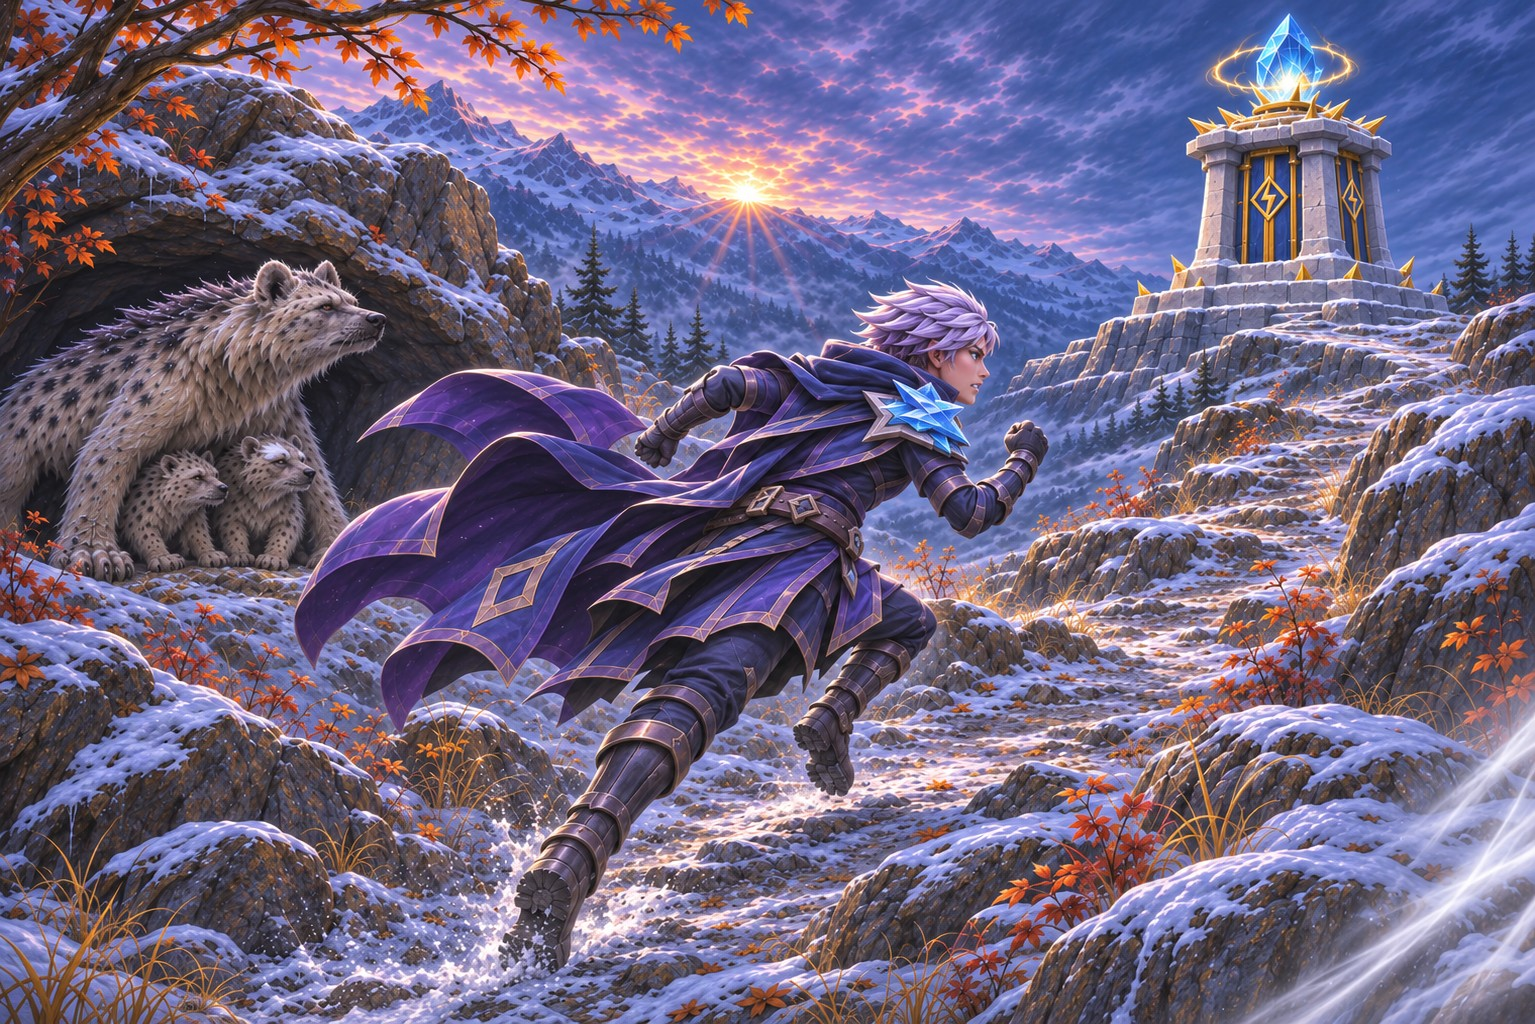
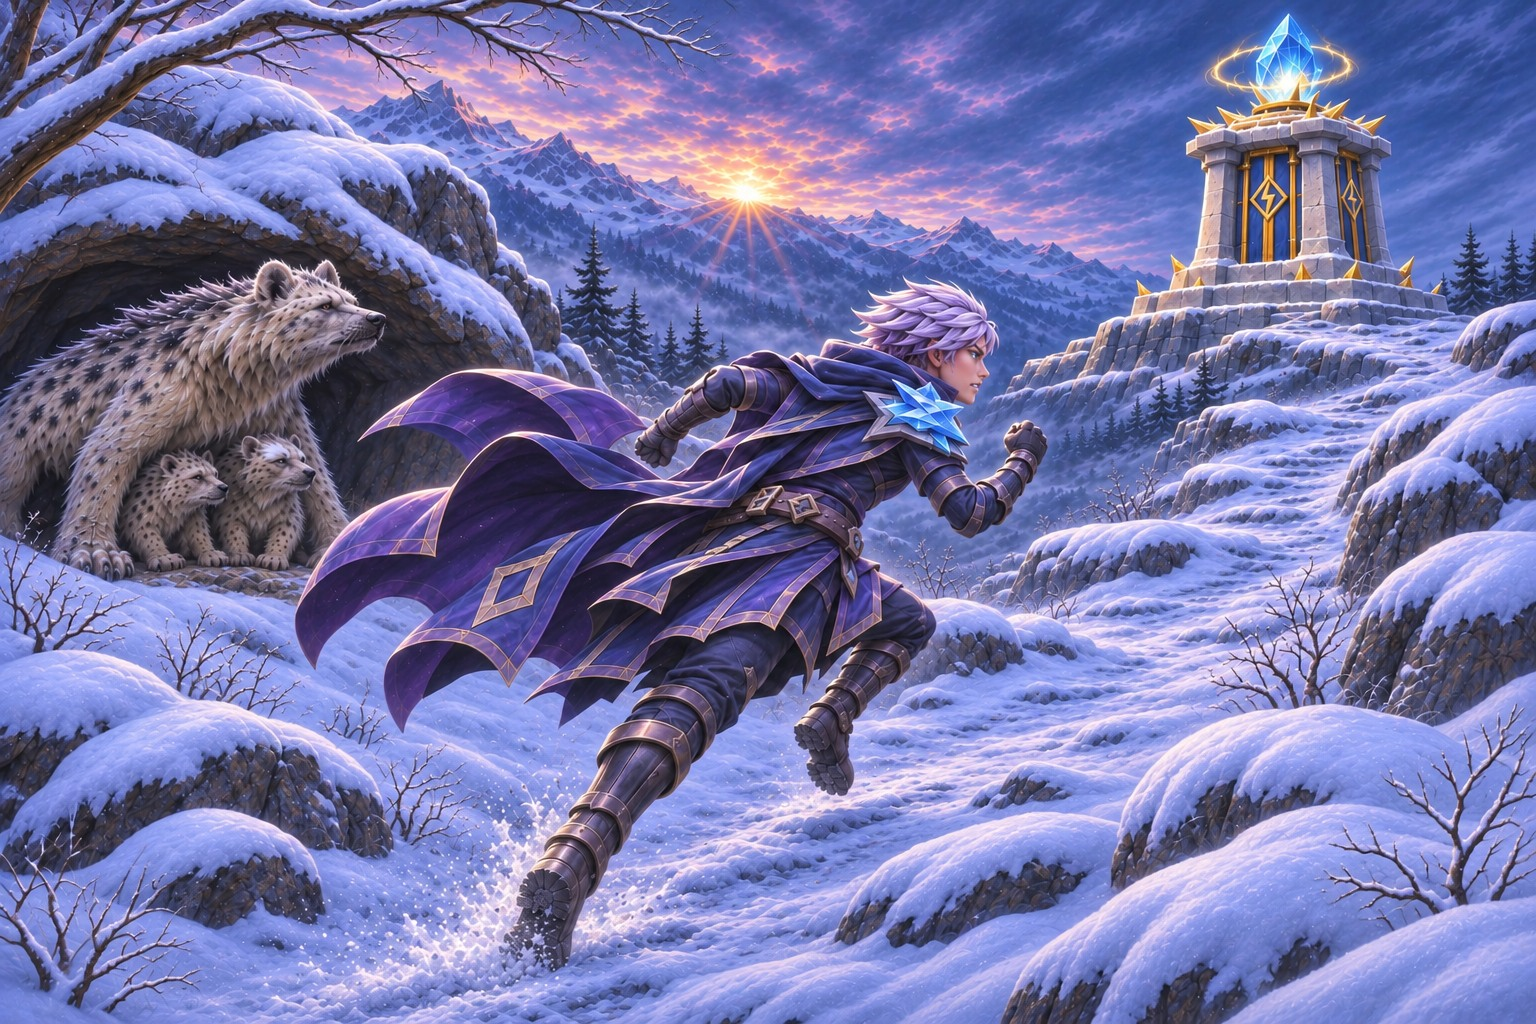
Add winter illustrations and the origin of Saila scar

diff --git a/RIFTORYN_SAILA_PROMPTY_AKTUALIZACJA.md b/RIFTORYN_SAILA_PROMPTY_AKTUALIZACJA.md
@@ -2,7 +2,7 @@
 
 Nowe kadry [06](riftoryn-unity/Assets/Resources/SailaStory/06.jpg) i [08](riftoryn-unity/Assets/Resources/SailaStory/08.jpg) są już w czytniku „Ciężaru kryształu”. Zachowują proporcje dostarczonych obrazów. Poniżej zapisano prompty do tych scen.
 
-**Retusz bez zmiany kadrów:** `SailaAwakening/01.jpg`, `02.jpg`, `04.jpg`, `05.jpg` i `06.jpg`. W tych pięciu plenerach pogłębiamy zimę. Druga część nie potrzebuje żadnej nowej sceny; `03.jpg` nie jest potrzebny, a finałowy [`07.jpg`](riftoryn-unity/Assets/Resources/SailaAwakening/07.jpg) zostaje bez zmian.
+W „Gdy wieża zamilkła” są już zimowe kadry `01.jpg`, `02.jpg`, `04.jpg`, `05.jpg` i `06.jpg`. Na kadrze 06 Saila ma świeże rozcięcie na lewym policzku w miejscu późniejszej blizny widocznej na portrecie. Poniżej zapisano prompty do tych scen.
 
 Pliki obu części znajdują się w `riftoryn-unity/Assets/Resources/`. Zachowaj poziomy format **3:2, 1536 × 1024 px, JPG**, bez napisów, ramek i znaków wodnych. Przy generowaniu użyj istniejących ilustracji jako referencji stylu oraz [arkusza Saily](assets/heroes/modeling-concepts/saila.png) jako referencji postaci. Saila jest młodą dorosłą kobietą o krótkich srebrzysto-lawendowych włosach. Zachowaj jej twarz, ciemny granat i fiolet płaszcza oraz charakterystyczny lodowy naramiennik.
 
@@ -28,8 +28,8 @@ Edytuj **po jednym obrazie naraz**: dołącz dokładnie ten JPG, który chcesz p
 
 > Zachowaj oryginalną kompozycję, proporcje, twarz i strój Saily, ułożenie postaci, wygląd wieży i zwierząt oraz malarską fakturę. Zmień tylko plener na środek zimy w górach Nivoren. Usuń pomarańczowe liście z gałęzi, krzewów i ziemi. Odsłoń nagie gałązki i zostaw ciemne iglaki. Pogłęb śnieg na szlaku i półkach skalnych; zostaw odsłonięte krawędzie skał i istniejące ślady. Zachowaj to samo niskie światło zimowego poranka we wszystkich pięciu kadrach. Nie zmieniaj pory dnia ani położenia elementów.
 
-- **[`01.jpg` — alarm za załomem](riftoryn-unity/Assets/Resources/SailaAwakening/01.jpg):** „Zachowaj Sailę z kartą obchodu i niewidoczną za skałą wieżę. Nad załomem zostaw tylko krótki żółtobiały błysk alarmu, jak w tekście. Usuń pomarańczowe liście z gałęzi u góry; zachowaj ślady butów na ośnieżonym szlaku.”
+- **[`01.jpg` — alarm za załomem](riftoryn-unity/Assets/Resources/SailaAwakening/01.jpg):** „Pokaż Sailę nasłuchującą na szlaku i błękitny rozbłysk za skałą, za którą stoi wieża. Na śniegu widać ślady butów.”
 - **[`02.jpg` — pierwszy ostrzał](riftoryn-unity/Assets/Resources/SailaAwakening/02.jpg):** „Zachowaj żółtobiałe wyładowanie uderzające w skałę, Sailę po prawej oraz matkę z dokładnie dwoma młodymi. Zastąp rude krzewy u stóp skały śniegiem i nagimi gałązkami. Nie zasypuj wnęki, w której chowają się zwierzęta.”
 - **[`04.jpg` — bieg do wieży](riftoryn-unity/Assets/Resources/SailaAwakening/04.jpg):** „Zachowaj Sailę w biegu, wieżę i matkę z dwoma młodymi przy skale. Niech buty Saily rozrzucają trochę sypkiego śniegu; nie zmieniaj jej pozy ani kierunku biegu. Usuń rudy pas roślinności z pobocza.”
 - **[`05.jpg` — wieża milknie](riftoryn-unity/Assets/Resources/SailaAwakening/05.jpg):** „Zachowaj dłonie Saily przy cokole i lód wspinający się po filarach aż do korony. Zwykły śnieg na ziemi powinien być matowy; lód na konstrukcji pozostaje szklisty. Błękitny kryształ ma pozostać cały, a żółty błysk uwięziony w środku. Nic nie wylatuje z wieży.”
-- **[`06.jpg` — zwierzęta odchodzą](riftoryn-unity/Assets/Resources/SailaAwakening/06.jpg):** „Zachowaj wyczerpaną Sailę przy cokole, oblodzoną wieżę i matkę odchodzącą z dokładnie dwoma młodymi. Pogłęb śnieg przy przejściu między skałami. Kryształ wciąż świeci, ale wieża nie strzela. Nie dodawaj ratowników.”
+- **[`06.jpg` — zwierzęta odchodzą](riftoryn-unity/Assets/Resources/SailaAwakening/06.jpg):** „Pokaż wyczerpaną Sailę przy cokole, oblodzoną wieżę i matkę odchodzącą z dwójką młodych. Na lewym policzku Saily widać świeże ukośne rozcięcie w miejscu późniejszej blizny z portretu. Kryształ nadal świeci i otacza go złota poświata. Przejście między skałami jest ośnieżone.”

diff --git a/RIFTORYN_SAILA_ODBLOKOWANIE_OPOWIESC_DRAFT.md b/RIFTORYN_SAILA_ODBLOKOWANIE_OPOWIESC_DRAFT.md
@@ -94,7 +94,7 @@ Znałam sygnały wieży. Raz w tygodniu obsługa sprawdzała jej system ostrzega
 
 Ten nie był.
 
-Nad skalnym załomem rozbłysło żółtobiałe światło.
+Nad skalnym załomem rozbłysło błękitne światło.
 
 Po chwili usłyszałam głuchy huk.
 
@@ -682,7 +682,7 @@ Palce miałam zdrętwiałe.
 
 Próbowałam wstać, ale kolana ugięły się pode mną.
 
-Upadłam na śnieg.
+Osunęłam się przy cokole. Ostra krawędź lodu rozcięła mi lewy policzek.
 
 Nie czułam zwykłego bólu po długim zaklęciu.
 
@@ -746,7 +746,7 @@ Sama ruszyła ostatnia.
 
 Przez krótką chwilę zatrzymała się i spojrzała w moją stronę.
 
-**[MIEJSCE NA ILUSTRACJĘ 6 — Wyczerpana Saila przy zatrzymanej wieży; szronogrzbieta odchodzi z młodymi.]**
+**[MIEJSCE NA ILUSTRACJĘ 6 — Wyczerpana Saila z rozciętym policzkiem opiera się o cokół. Szronogrzbieta odchodzi z dwójką młodych.]**
 
 Nie wyglądała na wdzięczną.
 
@@ -786,7 +786,7 @@ Wiedziałam tylko, że nie powinnam była być do tego zdolna.
 
 Spojrzałam na wieżę.
 
-Ogromny kryształ nadal świecił łagodnym błękitem. W jego wnętrzu od czasu do czasu przeskakiwała niewielka żółta iskra.
+Ogromny kryształ nadal świecił łagodnym błękitem. Wokół niego utrzymywała się cienka złota poświata.
 
 Lód obejmował oprawę, filary i część korony.
 
@@ -928,7 +928,9 @@ Widziałam przed sobą dwa małe stworzenia skulone pod brzuchem matki.
 
 Opiekunka przysunęła mi wodę.
 
-— Nikt nie został ranny. To najważniejsze.
+— Podróżnym nic się nie stało. To najważniejsze.
+
+Dotknęłam lewego policzka. Zaschnięta krew ściągała skórę.
 
 Nie odpowiedziałam od razu.
 
